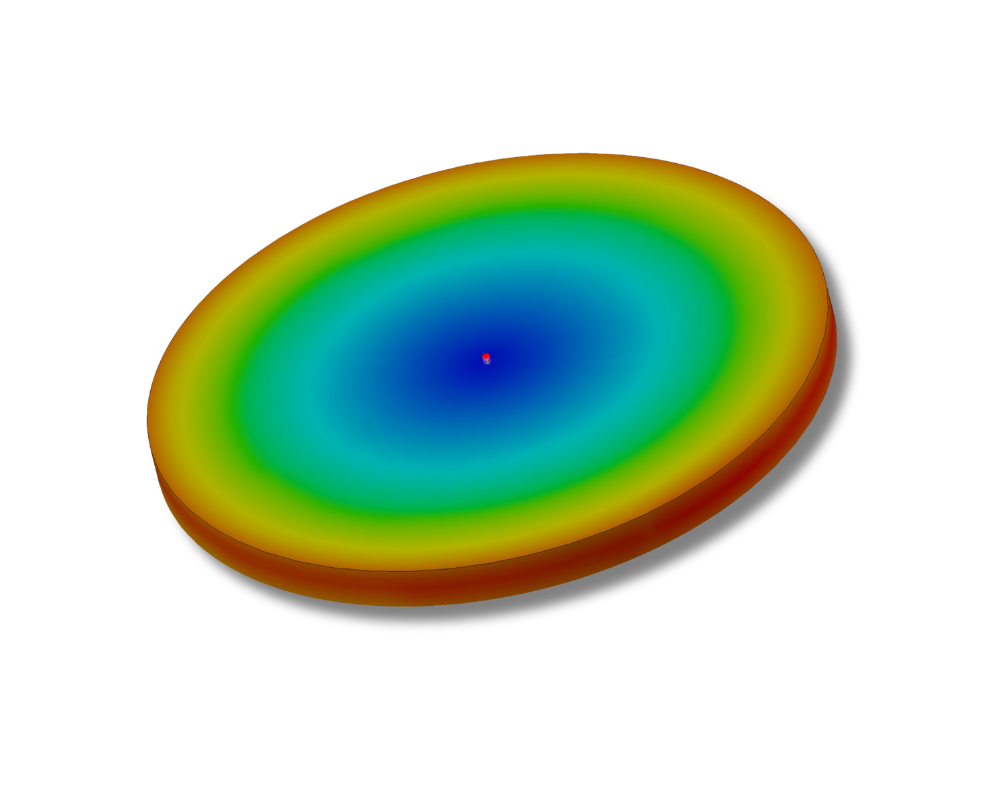
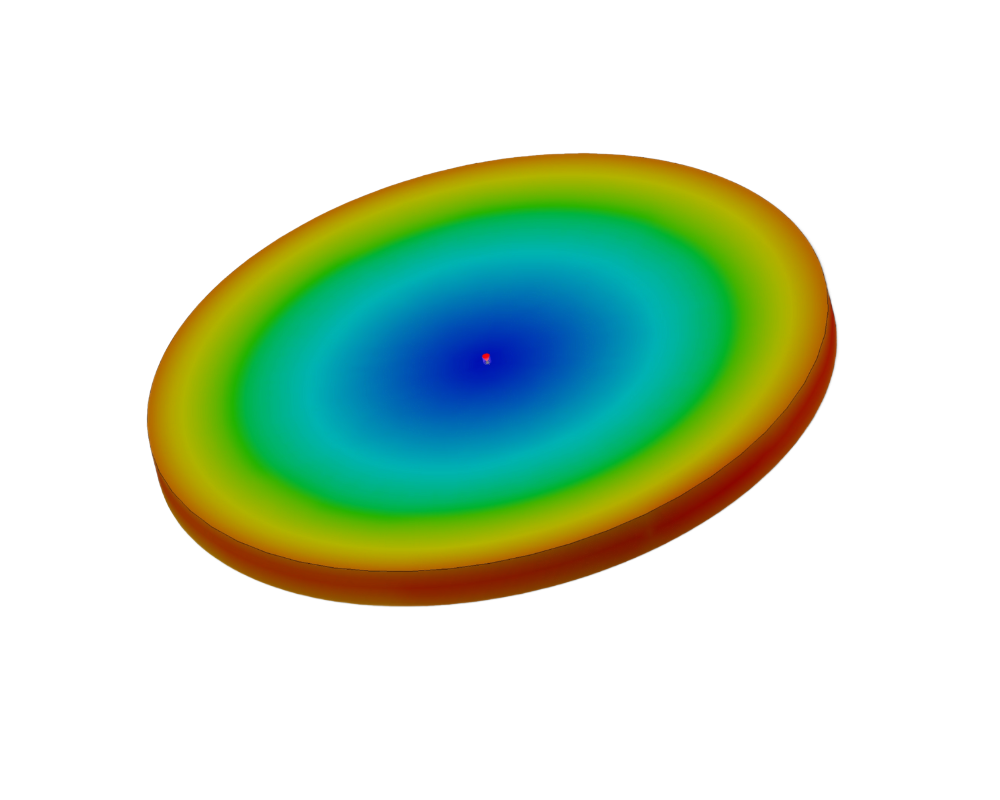
pcb photo

Changed region(s): [[0.186, 0.2812, 0.868, 0.7812]]

diff --git a/index.html b/index.html
@@ -611,7 +611,7 @@
                     Design, simulation, manufacturing of a tensile test machine. <!-- <a href="/assets/reports/.pdf" target="_blank" class="report-link">View Report ↗</a> -->
                 </p>
                 <div class="project-tags">
-                    <span class="tag">Mechanical Design</span>
+                    <span class="tag">Machine Design</span>
                     <span class="tag">Stress Analysis</span>
                     <span class="tag">Materials Science</span>
                 </div>
@@ -668,7 +668,7 @@
             <!-- ieee pcb design -->
             <a href="" class="project-card" target="_blank">
                 <div class="project-image">
-                    <img src="/assets/images/pcb.png" alt="PCB Design">
+                    <img src="/assets/images/pcb.jpg" alt="PCB Design">
                     
                 </div>
                 <div class="project-meta">